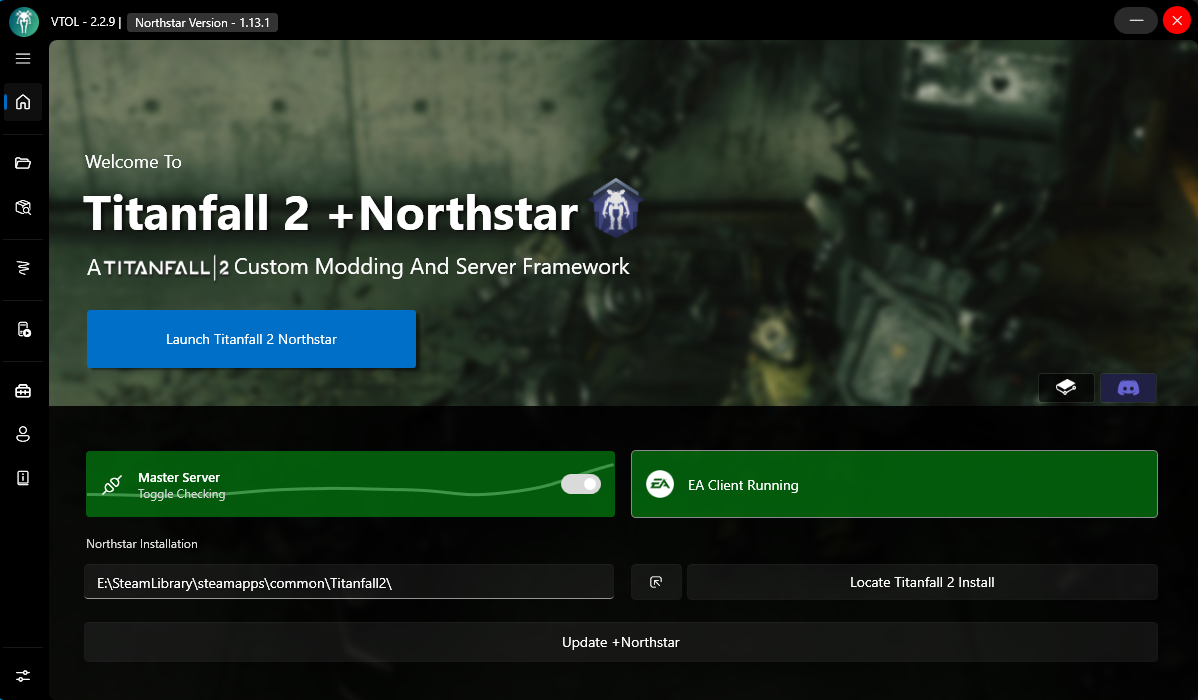
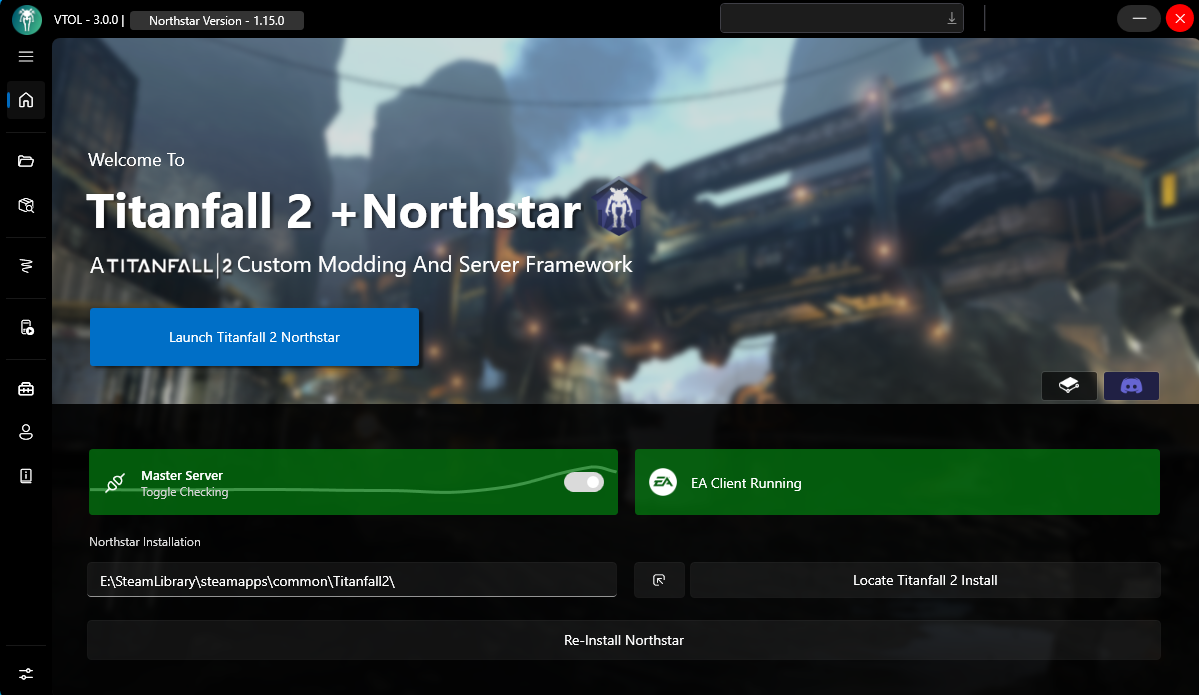
Update VTOL Guide (R2Northstar/NorthstarDocs#198)

diff --git a/docs/docs/installing-northstar/northstar-installers/vtol-guide.md b/docs/docs/installing-northstar/northstar-installers/vtol-guide.md
@@ -1,6 +1,15 @@
 # VTOL Guide
 
-VTOL is a mod manager for installing and managing mods for the Northstar client made for Titanfall 2. You can find links to install it on the [Northstar website](https://northstar.tf), or on [VTOL's GitHub page](https://github.com/R2NorthstarTools/VTOL).
+VTOL is a mod manager for installing and managing mods for the Northstar client made for Titanfall 2.
+
+VTOL works on Windows only and you can find links to download it on [Northstar's website](https://northstar.tf) or [VTOL's GitHub repo](https://github.com/R2NorthstarTools/VTOL).
+Installing it from the website automatically installs the latest version that will automatically update itself.
+On the GitHub repo, you can download the newest version by clicking one of two options. 
+Note that the portable is just a `.exe` file and not the installer, as such it won't automatically update itself.
+
+![VTOL installer download (on GitHub, automatically updates](../../images/vtol-download-github.png)
+
+![VTOL portable download (on GitHub, doesn't automatically update](../../images/vtol-download-github-portable.png)
 
 ## Main Menu
 
@@ -8,24 +17,24 @@ VTOL is a mod manager for installing and managing mods for the Northstar client 
 
 **The _Main Menu_ of VTOL is where you'll probably spend most of your time.**
 
-This menu has a lot of useful information, such as the _"version of VTOL"_ you have, the _"version of Northstar"_ you have, if the Master Server is online, _"whether EA App/Origin are currently open"_, and a _"place to set your game path"_. 
+This menu has a lot of useful information, such as the version of VTOL you have, the version of Northstar you have, if the Master Server is online, whether EA App/Origin are currently open, and a place to set your game path. 
 
 ## Version Numbers
 
-You can see what _"version of VTOL/Northstar"_ you have in the top left corner of the VTOL window.
+In the top left corner of the VTOL window you can see what versions of VTOL and Northstar you have installed.
 
 ![Version Numbers](../../images/vtol-version-numbers.png)
 
 ## Master Server/EA or Origin online
 
-These small tabs near the middle of the VTOL window show you whether the Master Server for Northstar is currently online, and if EA or Origin is running properly on your computer. If the EA/Origin tab is red, solving that will be covered later (See: Settings section later on).\
+These small tabs near the middle of the VTOL window show you whether the Master Server for Northstar is currently online, and if EA or Origin is running properly on your computer. If the EA/Origin tab is red, make sure to open EA/Origin first.\
 If you are unsure if you have EA or Origin, you have EA.
 
 ![Server/EA/Origin Status](../../images/vtol-server-status.png)
 
 ## Northstar Installation/Locate Titanfall 2 Install
 
-The final parts of the Main Menu are at the bottom, showing your game's directory with a button to Locate Titanfall 2 install, a small button next to this, and a button reading _"Update +Northstar"_
+The final parts of the Main Menu are at the bottom, showing your game's directory with a button to Locate Titanfall 2 install, a small button next to this, and a button below both of these reading _"Re-Install Northstar"_.
 
 ![Installation Section](../../images/vtol-northstar-installation-info.png)
 
@@ -37,24 +46,27 @@ VTOL handles most things automatically, but it may still require minimal setup f
 
 Something you might have to do manually is locate your Titanfall 2 install. You can do this by pressing the button of the same name on VTOL, and navigating to your Titanfall 2 directory (If you're unsure of what your game path is, check out the [Default Directories](../troubleshooting.md#game-location) section)
 
-After doing this, Northstar should automatically install. If not, the button at the bottom will read _"Install Northstar"_. Let VTOL install Northstar, and you should be good to go. Once installed, this button will turn into the _"Update +Northstar"_ shown in the screenshot earlier, which you can use to update without having to reinstall.
+After doing this, Northstar should automatically install. If not, the button at the bottom will read _"Install Northstar"_. 
+Let VTOL install Northstar and you should be good to go. Once installed, this button will turn into the _"Re-Install Northstar"_ button shown in the screenshot earlier, which you can use to forcibly reinstall Northstar in the case something goes wrong with your Northstar install.
 
 ## Launching Northstar via VTOL
 
 ![Launching Northstar](../../images/vtol-launching-northstar.png)
 
-Assuming you've followed everything up to this point, you should be set to hit _"Launch Titanfall 2 Northstar"_ and play on Northstar's servers. If you encounter an error like a crash, Northstar will create a log file in the `Titanfall2/R2Northstar/logs` directory. You can look at this log yourself, or send it on the [Northstar Discord server](https://discord.com/invite/northstar) and someone can try to look at it and help you.
+Assuming you've followed everything up to this point, you should be set to hit _"Launch Titanfall 2 Northstar"_ and play on Northstar's servers.
+If you encounter an error like a crash, Northstar will create a log file in the `Titanfall2/R2Northstar/logs` directory. 
+You can look at this log yourself, or send it on the [Northstar Discord server](https://discord.com/invite/northstar) and someone can try to look at it and help you.
 
 ## Additional Mods/Settings
 
 ## Tab List
 
-![VTOL Tab List](../../images/vtol-settings.png)
-
 The furthermost left side of VTOL has a list of tabs you can use for several different functions.\
 To expand the smaller version of the tab list, press the button with 3 bars as shown below
 
 ![3 Bars](../../images/vtol-settings-expand.png)
+
+![VTOL Tab List](../../images/vtol-settings.png)
 
 **NOTE: This guide will not be including the _"Home"_ button as a tab when describing this list. When it says the first tab, it means the first tab underneath the home button**
 ## Installed Mods List
@@ -72,7 +84,9 @@ You can also right click on a specific mod to get the option to either delete it
 
 ![Mods browser](../../images/vtol-mods-browser.png)
 
-VTOL has a built in-browser for searching [Northstar's Thunderstore page](https://northstar.thunderstore.io/) (the website where most Northstar mods get uploaded to), located at the second tab _"Browse"_ on the tab list. You will see the newest uploaded mods here by default, which you can change by applying filters (Note: The sorting is by default Low-High for filters. You can change this by pressing the button with an arrow next to the filters button, making it High-Low)
+VTOL has a built in-browser for searching [Northstar's Thunderstore page](https://northstar.thunderstore.io/) (the website where most Northstar mods get uploaded to), located at the second tab _"Browse"_ on the tab list. 
+You will see the newest uploaded mods here by default, which you can change by applying filters (Note: The sorting is by default Low-High for filters. 
+You can change this by pressing the button with an arrow next to the filters button, making it High-Low)
 
 VTOL also has support where all you need to do is drag and drop a mod downloaded from the Thunderstore page onto the _"Mods"_ tab (the second tab on the left side) to automatically install the mod.
 
@@ -80,19 +94,26 @@ VTOL also has support where all you need to do is drag and drop a mod downloaded
 
 ![VTOL Settings](../../images/vtol-settings-tab.png)
 
-On the way bottom of the tab list, there is a button to open settings for the VTOL manager. You will want to keep most of these on default, but change them as you wish. It is normal for the _"Restart_As_Admin"_ button to appear untoggled. This is also where you can tick _"Enable_EA_APP_Usage"_ to make the client work better with the EA app, assuming you have it and not Origin.
+On the way bottom of the tab list, there is a button to open settings for the VTOL manager. You will want to keep most of these on default, but change them as you wish.
+It is normal for the _"Restart_As_Admin"_ button to appear untoggled. This is also where you can tick _"Enable_EA_APP_Usage"_ to make the client work better with the EA app, assuming you have it and not Origin.
 
 ## Skins
 
 ![Skins installation tab](../../images/vtol-skins.png)
 
-The third settings tab on VTOL is the _"Skins"_ tab. VTOL has support for skins formatted for an older version of Northstar, normally requiring an extra tool. All you need to do is drag the folder of one of these old style skins onto the Skins screen to install it automatically.
+The third settings tab on VTOL is the _"Skins"_ tab. VTOL has support for DDS format skins (the skins with the numbered folders in them), which are commonly used for Vanilla Titanfall 2, with Northstar generally opting to convert them to mods.
+
+This format is older and less consistent than converting them to a mod to be used with Northstar (see [Advocate](./#advocate)).
+It can still be used on Vanilla by making use of a [vanilla profile](../../using-northstar/advanced.md#vanilla-profile).
+
+However, if you want you can still install skins like this for use with Northstar.
+All you need to do is drag the folder of a DDS format skin onto the Skins screen of VTOL to install it automatically.
 
 ## Server
 
 ![Launch arguments/dedicated server tab](../../images/vtol-server.png)
 
-The fourth tab on VTOL is the _"Server"_ tab. This section allows you to add Launch Arguments to your client or dedicated server. Note that this adds Launch Arguments to change what Northstar does when it launches, not to launch Northstar itself. A way you can do this is by adding [Launch Arguments](../troubleshooting.md#launch-opts) via the store you own the game on and launching through there.
+The fourth tab on VTOL is the _"Server"_ tab. This section allows you to add Launch Arguments to your client or dedicated server.
 
 For the dedicated server option, you can scroll through this tab to set many different options for a server which can be found on the Northstar Wiki's [Server Hosting Guide](../../hosting-a-server-with-northstar/basic-listen-server.md)
 
@@ -112,13 +133,16 @@ The first screen is an area where you can locate a folder for a mod you've creat
 
 ![VTOL's Skin Tool implementation](../../images/vtol-skintool.png)
 
-The second screen is an area where you can drag and drop images to the different maps of a skin to make your own skin. This is an implementaion of the [skin tool](https://github.com/zxcPandora/Titanfall2-SkinTool).
+The second screen is an area where you can drag and drop images to the different maps of a skin to make your own skin. This is an implementaion of the [Skin Tool](https://github.com/zxcPandora/Titanfall2-SkinTool).
 
 ### Advocate
 
 ![VTOL's Advocate implementation](../../images/vtol-advocate.png)
 
-The third screen is an implementation of Spoon's [Advocate Tool](https://github.com/ASpoonPlaysGames/Advocate), where you can convert an old style skin mod to a mod that can be installed by everyone like a normal mod. Please give credit to the original skin owner while doing this. (If confused, following the earlier link to Github describes how to set up Advocate)
+The third screen is an implementation of Spoon's [Advocate Tool](https://github.com/ASpoonPlaysGames/Advocate), where you can convert a DDS formatted skin to a mod that can be installed by everyone normally without the need for the [Skin Tool](https://github.com/zxcPandora/Titanfall2-SkinTool).
+If you're going to be sharing a converted skin that isn't yours, please give credit to the original creator.
+(If confused on how to use this, follow the earlier link to Github that describes how to set up Advocate.
+Do note, this version of Advocate isn't perfectly up to date)
 
 ### External Tools
 
@@ -130,11 +154,13 @@ The fourth screen lists a lot of commonly used tools by modders to help create m
 
 ![VTOL's Profiles menu](../../images/vtol-profiles.png)
 
-The sixth tab is the _"Profiles"_ tab, allowing you to create profiles for Northstar. Profiles are seperate Northstar installs, each with their own set of mods and seperated by folders. For example, you can have one profile with your normal set of mods, and another profile for only using core mods (those that common with Northstar/the ones that start with `Northstar.`).
+The sixth tab is the _"Profiles"_ tab, allowing you to create profiles for Northstar. Profiles are seperate Northstar installs, each with their own set of mods and seperated by folders. 
+For example, you can have one profile with your normal set of mods and another profile for only using core mods (those that common with Northstar/the ones that start with `Northstar.`).
 
 ![The Export Profile menu in VTOL](../../images/vtol-export-profile.png)
 
-Hitting `Export Profile` will save your current profile to a `.vbp` file, which you can easily switch to by clicking `IMPORT` on the desired profile inside of VTOL. You can also share your profile or download someone else's profile if they send you this file by hitting `Add Profile` and selecting the downloaded file. These files get saved to `Titanfall2/VTOL_profiles`.
+Hitting `Export Profile` will save your current profile to a `.vbp` file, which you can easily switch to by clicking `IMPORT` on the desired profile inside of VTOL.
+You can also share your profile or download someone else's profile if they send you this file by hitting `Add Profile` and selecting the downloaded file. These files get saved to `Titanfall2/VTOL_profiles`.
 
 ## About
 
